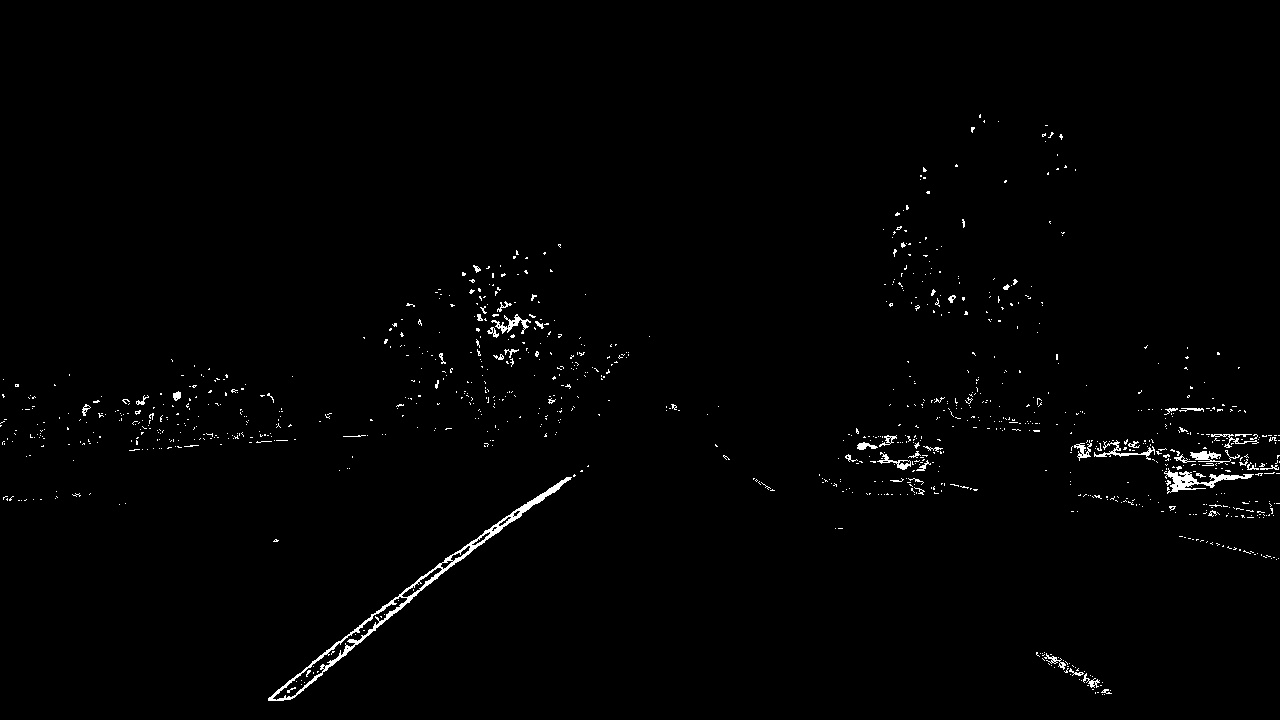
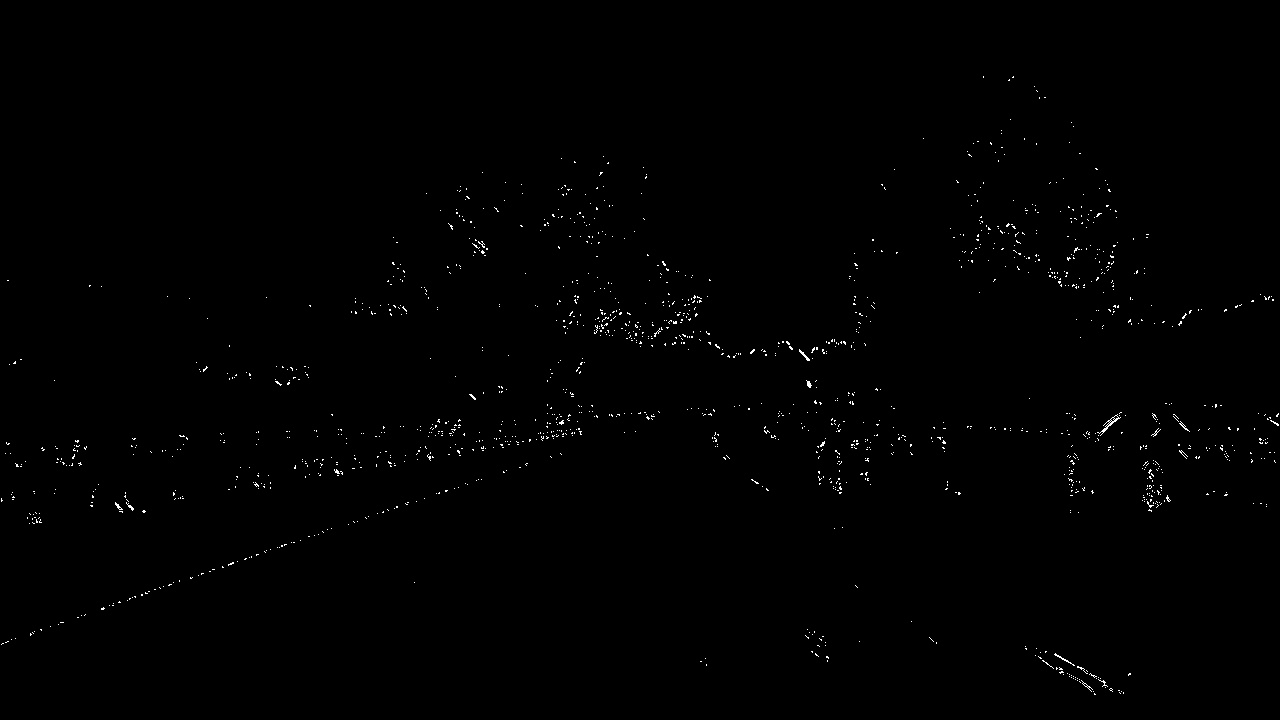
Thresholding and perspective transformation

diff --git a/process.py b/process.py
@@ -1,5 +1,6 @@
 import cv2
 import matplotlib.image as mpimg
+import matplotlib.pyplot as plt
 import numpy as np
 import os
 import pickle
@@ -9,7 +10,9 @@ dist_pickle = pickle.load(open("calibration.p", "rb"))
 mtx = dist_pickle["mtx"]
 dist = dist_pickle["dist"]
 
+
 # file = 'straight_lines1.jpg'
+thresh = True
 file = 'test5.jpg'
 source_files = 'test_images'
 output_files = 'output_images'
@@ -26,8 +29,42 @@ def cal_undistort(img, mtx, dist):
 
     return undist
 
+def abs_sobel_thresh(img, orient='x', sobel_kernel=3, thresh=(0, 255)):
+    gray = cv2.cvtColor(img, cv2.COLOR_RGB2GRAY)
+    if orient == 'x':
+        sobel = cv2.Sobel(gray, cv2.CV_64F, 1, 0, ksize = sobel_kernel)
+    elif orient=='y':
+        sobel = cv2.Sobel(gray, cv2.CV_64F, 0, 1, ksize = sobel_kernel)
+    abs = np.absolute(sobel)
+    scaled = np.uint8(abs/np.max(abs) * 255)
+    thresholded = np.zeros_like(scaled)
+    thresholded[(scaled >= thresh[0]) & (scaled <= thresh[1])] = 1
+    return thresholded
 
-def h_channel_threshold(image, thresh=(90, 255)):
+def mag_thresh(img, sobel_kernel=3, mag_thresh=(0, 255)):
+    gray = cv2.cvtColor(img, cv2.COLOR_RGB2GRAY)
+    gradx = cv2.Sobel(gray, cv2.CV_64F, 1, 0, ksize = sobel_kernel)
+    grady = cv2.Sobel(gray, cv2.CV_64F, 0, 1, ksize = sobel_kernel)
+    mag = np.sqrt(np.power(gradx,2) + np.power(grady,2))
+    scaled = np.uint8(255 * mag/np.max(mag))
+    mask = np.zeros_like(scaled)
+    mask[(scaled > mag_thresh[0]) & (scaled < mag_thresh[1])] = 1
+    return mask
+
+
+def dir_threshold(img, sobel_kernel=3, thresh=(0, np.pi/2)):
+    gray = cv2.cvtColor(img, cv2.COLOR_RGB2GRAY)
+    gradx = cv2.Sobel(gray, cv2.CV_64F, 1, 0, ksize = sobel_kernel)
+    grady = cv2.Sobel(gray, cv2.CV_64F, 0, 1, ksize = sobel_kernel)
+    abs_x = np.abs(gradx)
+    abs_y = np.abs(grady)
+    directions = np.arctan2(abs_y, abs_x)
+    binary_output = np.zeros_like(directions)
+    binary_output[(directions >= thresh[0]) & (directions <= thresh[1])] = 1
+    return binary_output
+
+
+def s_channel_threshold(image, thresh=(90, 255)):
     hls = cv2.cvtColor(image, cv2.COLOR_RGB2HLS)
     S = hls[:, :, 2]
     binary = np.zeros_like(S)
@@ -35,8 +72,21 @@ def h_channel_threshold(image, thresh=(90, 255)):
     return binary
 
 
-def threshold(image, h_thresh=(90, 255)):
-    return h_channel_threshold(image, h_thresh)
+def threshold(image):
+    ksize=3
+    s_thresh = s_channel_threshold(image, thresh=(170, 255))
+
+    gradx = abs_sobel_thresh(image, orient='x', sobel_kernel=ksize, thresh=(40, 120))
+    grady = abs_sobel_thresh(image, orient='y', sobel_kernel=ksize, thresh=(40, 120))
+    dir_binary = dir_threshold(image,  sobel_kernel=15, thresh=(0.7, 1.2))
+    mag_binary = mag_thresh(image, sobel_kernel=9, mag_thresh=(50, 200))
+    combined = np.zeros_like(dir_binary)
+
+    combined[((gradx == 1) & (grady == 1)) | ((mag_binary == 1) & (dir_binary == 1)) | s_thresh ==1] = 1
+    # gradfilter = (gradx == 1) & (grady == 1)
+    # combined[gradfilter | s_thresh == 1] = 1
+
+    return combined
 
 
 def perspective_transform(img, src, dst):
@@ -46,19 +96,31 @@ def perspective_transform(img, src, dst):
     return warped
 
 
+def get_histogram(img):
+    histogram = np.sum(img[img.shape[0]/2:,:], axis=0)
+    return histogram
+
 mpimg.imsave(os.path.join(output_files, base_filename + "_1_orig.jpg"), img)
 
 img = cal_undistort(img, mtx, dist)
 
 mpimg.imsave(os.path.join(output_files, base_filename + "_2_undistorted.jpg"), img)
 
-img = threshold(img, (160, 250))
+src = np.float32([[595,451], [680,451], [233,720],[1067,720]])
+dst = np.float32([[350,0],   [930,0],  [350,720],[930,720]])
 
-mpimg.imsave(os.path.join(output_files, base_filename + "_3_thresholded.jpg"), img, cmap='gray')
-#//564,472 717
-src = np.float32([[564,472], [719,472], [269,676],[1034,676]])
-dst = np.float32([[200,0],   [1080,0],  [200,720],[1080,720]])
-img = perspective_transform(img, src, dst)
+if thresh:
+    img = threshold(img)
 
-mpimg.imsave(os.path.join(output_files, base_filename + "_4_perspective.jpg"), img, cmap='gray')
-# mpimg.imsave(os.path.join(output_files, base_filename + "_4_perspective.jpg"), img)
+    mpimg.imsave(os.path.join(output_files, base_filename + "_3_thresholded.jpg"), img, cmap='gray')
+    img = perspective_transform(img, src, dst)
+
+    mpimg.imsave(os.path.join(output_files, base_filename + "_4_perspective.jpg"), img, cmap='gray')
+
+    histogram = get_histogram(img)
+    plt.plot(histogram)
+    plt.savefig(os.path.join(output_files, base_filename + "_5_histogram.jpg"))
+else:
+    img = perspective_transform(img, src, dst)
+
+    mpimg.imsave(os.path.join(output_files, base_filename + "_4_perspective.jpg"), img)
